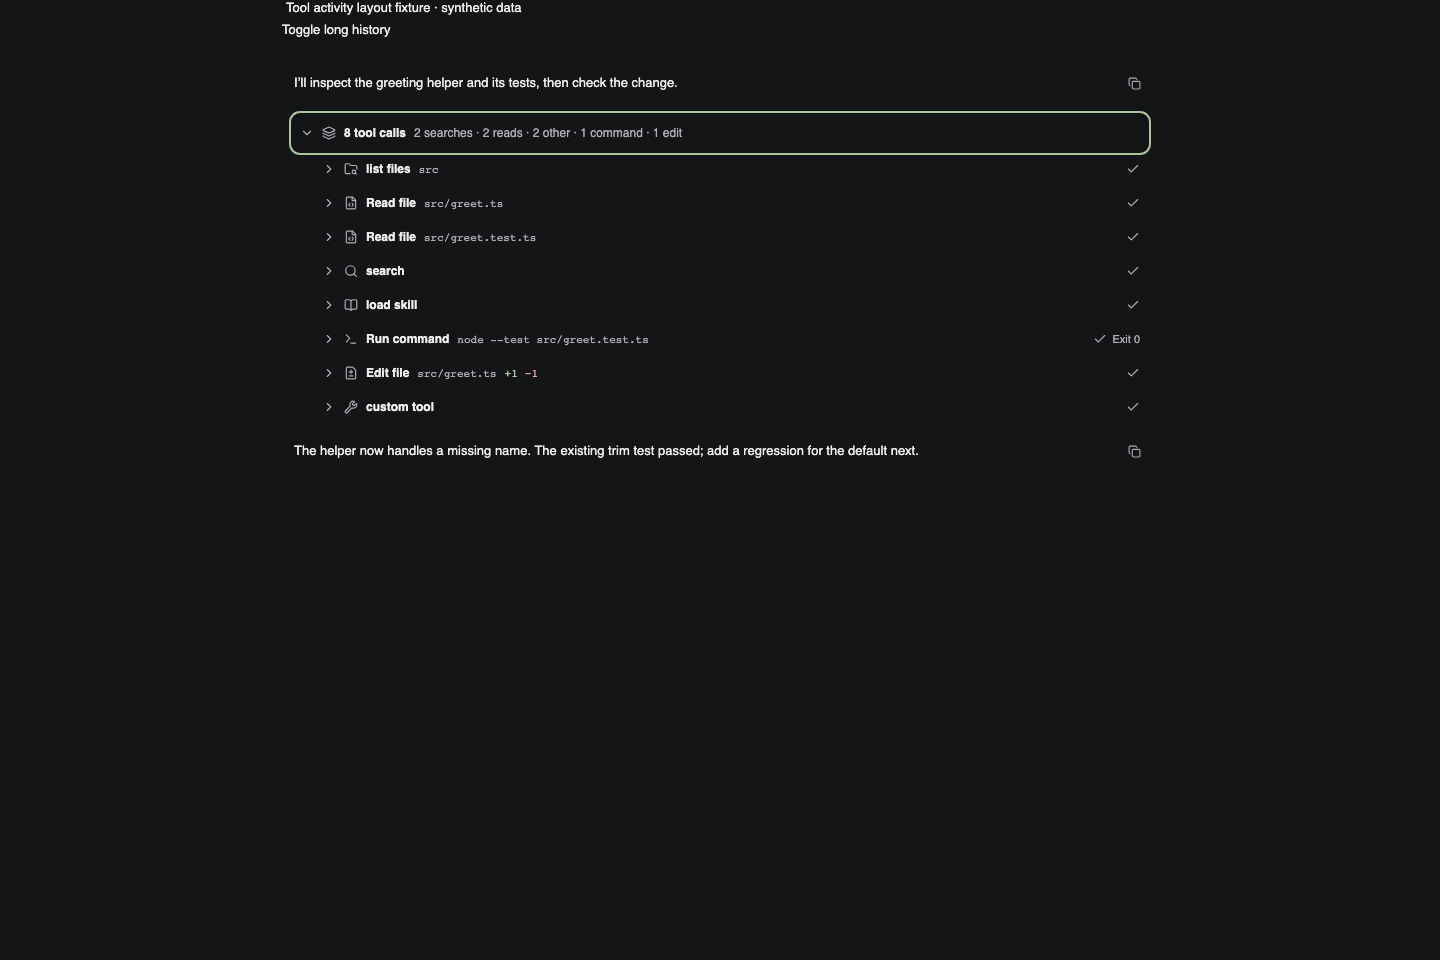
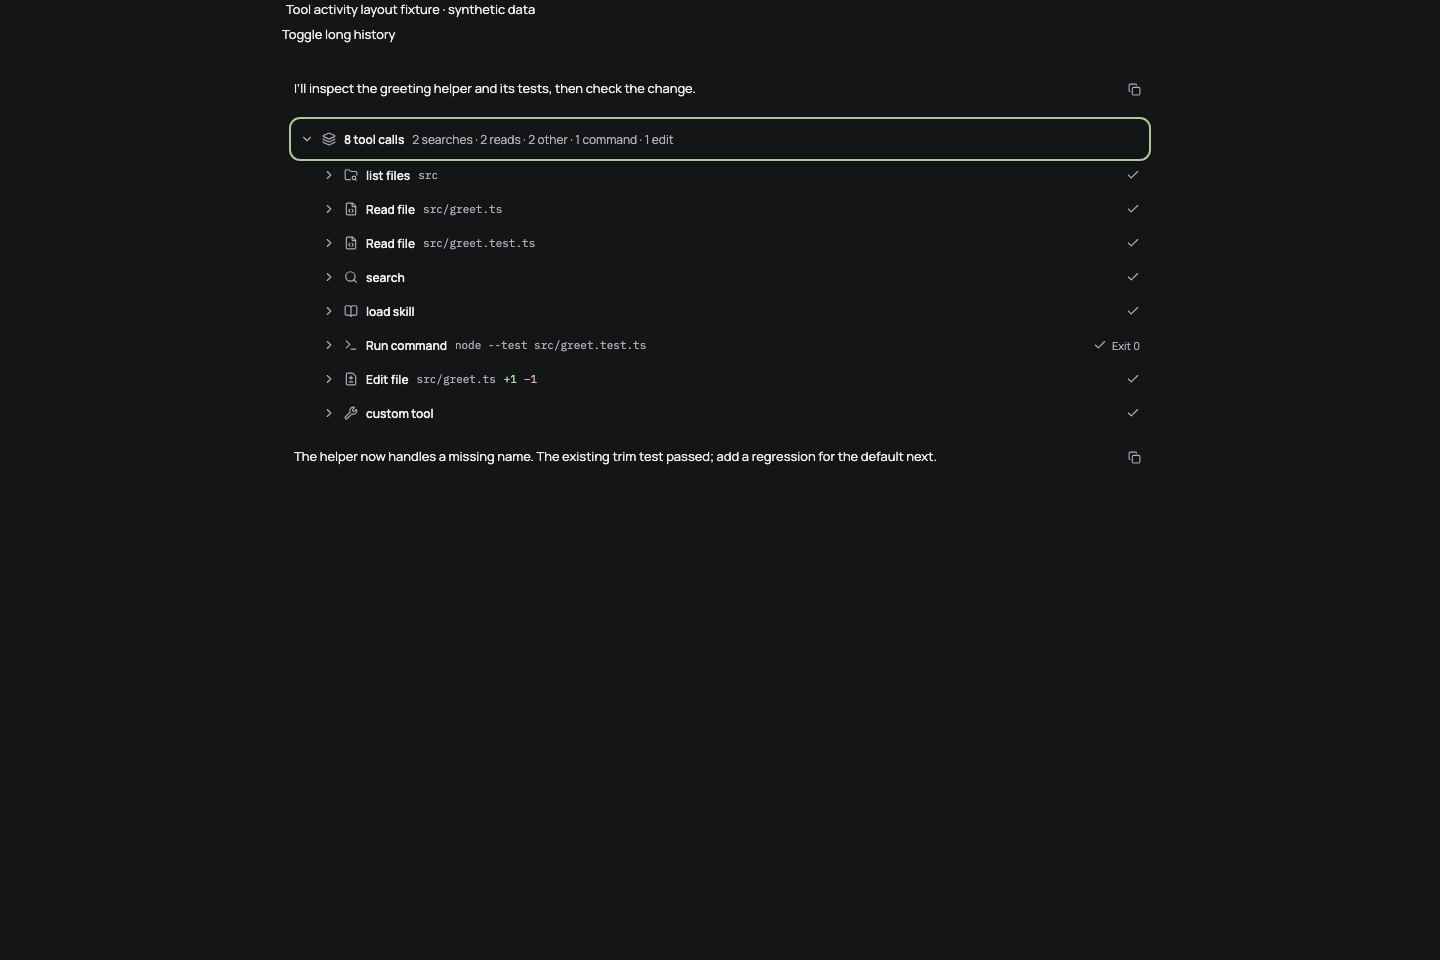
test(tools): verify loaded fonts and refresh visual evidence

Changed region(s): [[0.1875, 0.0, 0.8125, 0.4375], [0.2188, 0.4688, 0.6562, 0.5], [0.75, 0.3438, 0.7812, 0.375]]

diff --git a/e2e/tool-polish.spec.ts b/e2e/tool-polish.spec.ts
@@ -44,3 +44,15 @@ test("approval emphasis stays accessible across every accent and theme", async (
     }
   }
 });
+
+test("tool previews load the design system fonts", async ({ page }) => {
+  await page.goto(`${fixtureUrl}/?tools`);
+  const fonts = await page.evaluate(async () => {
+    const [body, source] = await Promise.all([
+      document.fonts.load('550 12px "Manrope Variable"'),
+      document.fonts.load('400 12px "IBM Plex Mono"'),
+    ]);
+    return [body.length, source.length];
+  });
+  expect(fonts.every((count) => count > 0)).toBe(true);
+});

diff --git a/docs/VERIFICATION.md b/docs/VERIFICATION.md
@@ -19,6 +19,10 @@ Commands ran from the worktree. The isolated fixture served that worktree on 419
 | `pnpm exec oxfmt --check DESIGN.md docs/VERIFICATION.md docs/design/tool-polish/STUDY.md docs/design/tool-polish/concept.png.json web/src/components/tool-call.tsx web/src/components/tool-disclosure.tsx web/src/components/transcript-messages.tsx web/src/styles.css e2e/tool-polish.spec.ts e2e/tool-stack.spec.ts` | Passed.                                                                                                                                                       |
 | `git diff --check`                                                                                                                                                                                                                                                                                                      | Passed.                                                                                                                                                       |
 
+Final preview correction: the first worktree setup linked `node_modules`, which caused Vite to refuse the font assets outside its allowed root. Those captures used fallback fonts. `pnpm install --frozen-lockfile` installed dependencies inside the worktree, and the fixture restarted with `pnpm exec vite --config e2e/fixtures/vite.config.ts --port 4197 --force`. A new test explicitly loads Manrope and IBM Plex Mono. The current captures replace the fallback-font captures.
+
+After this correction, `FILE_VIEWER_FIXTURE_URL=http://127.0.0.1:4197 pnpm test:e2e e2e/tool-polish.spec.ts e2e/tool-stack.spec.ts e2e/tool-renderers.spec.ts e2e/tool-approvals.spec.ts e2e/tool-disclosure.spec.ts e2e/motion.spec.ts e2e/virtual-transcript.spec.ts e2e/appearance.spec.ts e2e/design.spec.ts` passed **all 26 tests**. Appearance checks in this final command used the main app at 4173, now at the merged source; fixtures used the isolated worktree. `pnpm typecheck` and formatting also passed after adding the font check.
+
 The reveal regression failed before implementation (no animation on user-opened activity). Early browser checks found transient contrast loss from opacity and theme background transitions. Both effects were removed; the subsequent checks above passed. The final reveal clips in place without fading text or animating layout height. Reduced motion skips it, and restored nested disclosures do not animate again.
 
 The checkmark retains the accessible “Result received” text and tooltip. Exit codes, missing results, failures, running work, and approvals remain visible text. The existing completion test now asserts the retained tooltip instead of requiring redundant visible text.

diff --git a/docs/design/tool-polish/STUDY.md b/docs/design/tool-polish/STUDY.md
@@ -34,7 +34,7 @@ The rejected study's tree-like decoration is absent. Existing grouping boundarie
 Both themes, narrow layouts, keyboard focus, exact copy, approval retries, denial, missing results, and running completion are covered by browser checks.
 An early opacity reveal briefly reduced text contrast; it was replaced with a clip-only reveal. Background interpolation on tool headers was removed because theme switching could briefly put dark-theme text over a light surface.
 
-Final captures are real synthetic-fixture renders, not model evidence:
+Final captures use verified loaded Manrope and IBM Plex Mono fonts after correcting an isolated-preview dependency-link issue. All 26 affected browser tests passed in that setup. These are real synthetic-fixture renders, not model evidence:
 [light tools](tools-light.png), [dark tools](tools-dark.png), [mobile approval](approval-mobile.png), [dark expanded activity](activity-dark.png), and [mobile activity](activity-mobile.png).
 
 Verdict: ship. The final review found no remaining blocking presentation or interaction defects in the tested scope.
